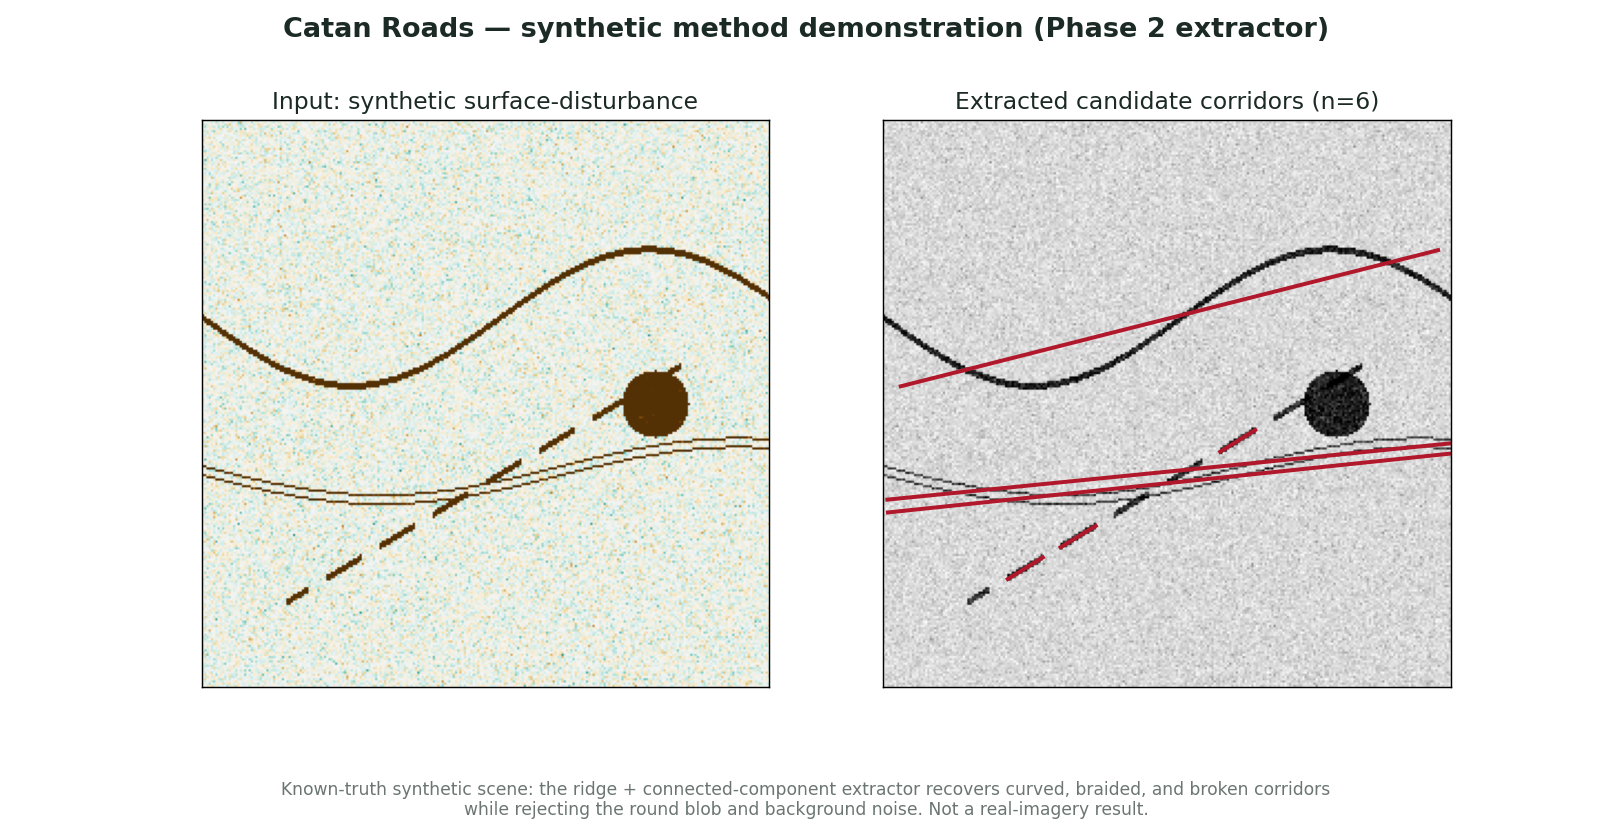
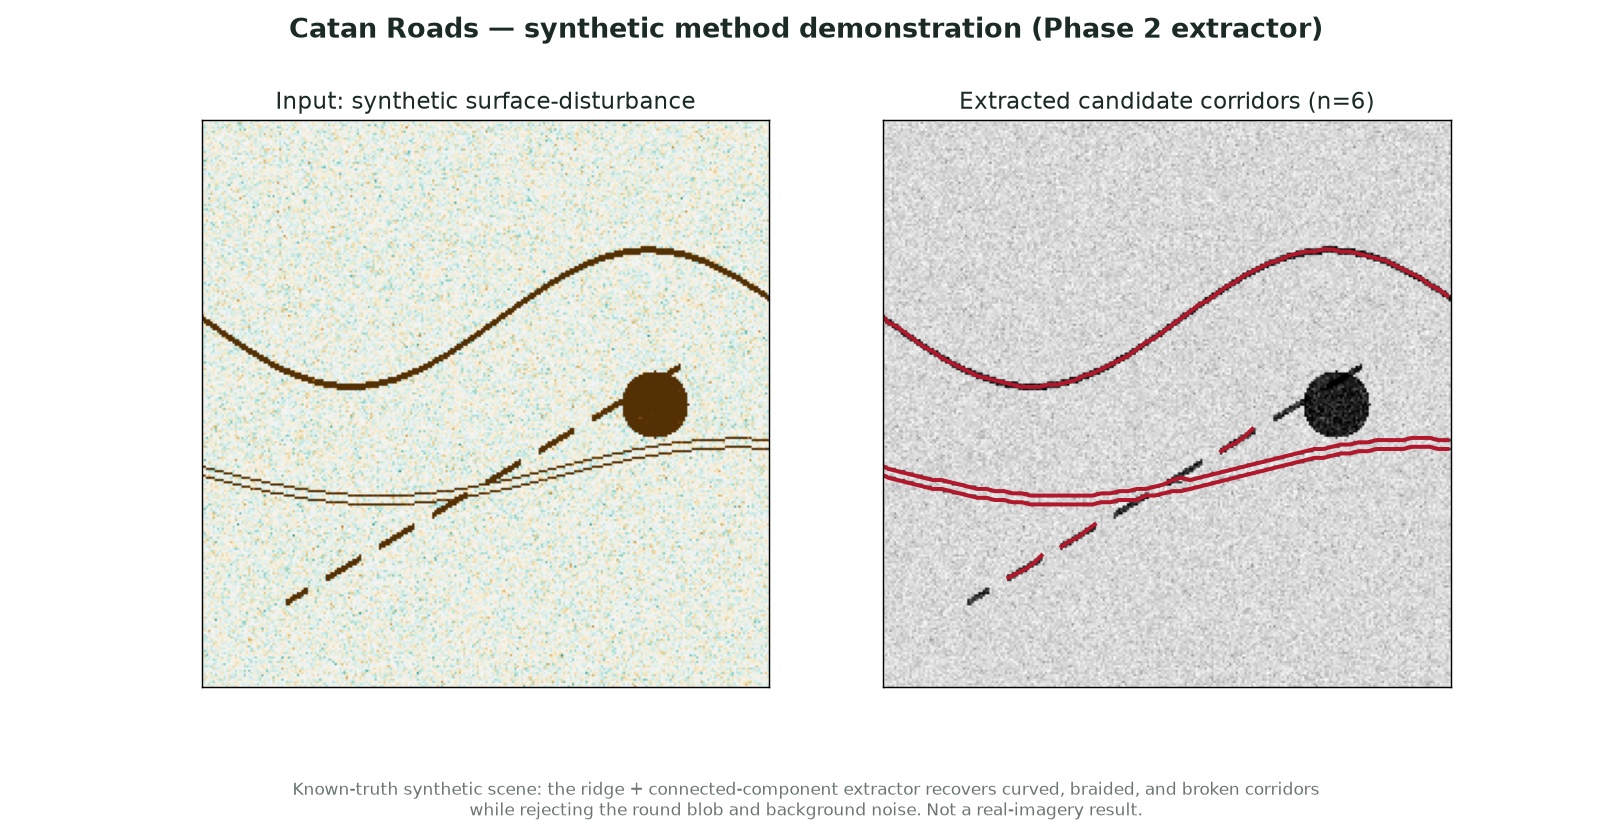
analysis: export a centred polyline (path_px) per candidate; curved corridors now pass the line layer (CR-09)
medial_path builds the 8-neighbour graph of one component's pixels with edge
cost 1/edt (scipy distance transform + csgraph dijkstra, no new dependency),
takes the deepest pixel at each major-axis extreme as the ends, and exports
the cheapest route, subsampled every 4 px, as path_px. endpoints_px and every
other chord field are unchanged, so the demo numeric record and its tests are
untouched. to_geojson and the demo figure draw path_px; the stress-case line
layer scores it. Record v4; v1 baseline byte-unchanged.

Line recall vs reference centerline: low_snr 0.11 -> 1.00, tight_curve
0.25 -> 0.97, demo_reference 0.44 -> 0.94; component layer identical.
86 tests pass; CLI reproduces the committed record; both Node checks,
presentation and worksheet checks pass. Plan: docs/PLAN_2026-09-14_CR09.md.

diff --git a/analysis/tests/test_stress_cases.py b/analysis/tests/test_stress_cases.py
@@ -85,11 +85,14 @@ def test_gradient_background_adds_small_false_candidates(live):
 
 
 # ── where it misrepresents ──────────────────────────────────────────────────────────────
-def test_hairpin_is_summarised_as_one_straight_segment():
+def test_hairpin_chord_is_flat_but_its_exported_path_doubles_back():
+    # CR-09: the chord summary is unchanged (and still blind to the curve); the exported path_px is not.
     d, _, _ = SC.case_tight_curve(); c = extract_candidates(d)[0]
     (x0, y0), (x1, y1) = c["endpoints_px"]
-    assert abs(y0 - y1) < 1.0, "endpoints lie on one horizontal line; the doubling-back is invisible"
+    assert abs(y0 - y1) < 1.0, "chord endpoints lie on one horizontal line; the doubling-back is invisible to the chord"
     assert c["width_px"] > 20, "the hairpin's height is reported as candidate WIDTH"
+    ys = [y for _, y in c["path_px"]]
+    assert max(ys) - min(ys) > 15, "path_px follows the hairpin"
 
 
 def test_width_px_is_curve_extent_not_road_width_regardless_of_noise():
@@ -105,7 +108,7 @@ def test_width_px_is_curve_extent_not_road_width_regardless_of_noise():
 def test_wrong_endpoints_score_worse_on_the_line_layer_negative_control():
     d, t, cl = SC.case_wide_corridor(); c = extract_candidates(d)
     good = SC.score_lines(cl, c, truth=t)
-    for cc in c: cc["endpoints_px"] = [[0.0, 0.0], [255.0, 255.0]]
+    for cc in c: cc["path_px"] = [[0.0, 0.0], [255.0, 255.0]]
     bad = SC.score_lines(cl, c, truth=t)
     assert good["line_recall"] > 5 * bad["line_recall"], (good, bad)
     assert good["line_precision"] > 0.95 and bad["line_precision"] < 0.1
@@ -114,7 +117,7 @@ def test_wrong_endpoints_score_worse_on_the_line_layer_negative_control():
 # ── review 2 (2026-09-12): the line layer penalised road width ──
 def test_perfect_centerline_passes_regardless_of_road_width():
     d, t, cl = SC.case_wide_corridor()
-    perfect = [dict(id=1, endpoints_px=[[0.0, 128.0], [255.0, 128.0]])]
+    perfect = [dict(id=1, path_px=[[0.0, 128.0], [255.0, 128.0]])]
     s = SC.score_lines(cl, perfect, truth=t)
     assert s["line_recall"] == 1.0 and s["line_precision"] == 1.0 and s["line_ok"]
     assert 0.3 < s["area_coverage"] < 0.45, "area coverage of a 13-px road by a 2-px band is a separate diagnostic, not a penalty"
@@ -122,7 +125,7 @@ def test_perfect_centerline_passes_regardless_of_road_width():
 
 def test_offset_centerline_is_penalised_by_the_centerline_metric():
     d, t, cl = SC.case_wide_corridor()
-    off = [dict(id=1, endpoints_px=[[0.0, 133.0], [255.0, 133.0]])]     # 5 px off-centre, still inside the 13-px road
+    off = [dict(id=1, path_px=[[0.0, 133.0], [255.0, 133.0]])]     # 5 px off-centre, still inside the 13-px road
     s = SC.score_lines(cl, off, truth=t)
     assert s["line_recall"] == 0.0 and not s["line_ok"], s
 
@@ -142,16 +145,25 @@ def test_demo_centerline_reconstruction_matches_the_generator():
 def test_component_layer_is_blind_to_endpoints_and_the_record_says_so(live):
     d, t, cl = SC.case_low_snr(); c = extract_candidates(d)
     s0 = SC.score(d, t, c, centerline=cl)
-    for cc in c: cc["endpoints_px"] = [[0.0, 0.0], [255.0, 255.0]]
+    for cc in c: cc["path_px"] = [[0.0, 0.0], [255.0, 255.0]]
     s1 = SC.score(d, t, c, centerline=cl)
     assert (s0["pixel_recall"], s0["pixel_precision"]) == (s1["pixel_recall"], s1["pixel_precision"])   # blind, by construction
     assert s1["line_recall"] < s0["line_recall"]                                                           # the line layer is not
 
 
-def test_curved_corridors_pass_the_component_layer_and_fail_the_line_layer(live):
+def test_curved_corridors_pass_the_component_layer_and_now_the_line_layer(live):
+    # CR-09 (2026-09-15): before path_px these three passed the component layer and FAILED the line
+    # layer (line recall 0.11 / 0.25 / 0.44); the exported polyline now follows the curve.
     for name in ("low_snr", "tight_curve", "demo_reference"):
-        assert live[name]["detected"] and not live[name]["line_ok"], name
-    assert live["low_snr"]["line_recall"] < 0.2 and live["tight_curve"]["line_recall"] < 0.35
+        assert live[name]["detected"] and live[name]["line_ok"], name
+    assert live["low_snr"]["line_recall"] >= 0.5 and live["tight_curve"]["line_recall"] >= 0.5
+
+
+def test_straight_component_path_stays_within_2px_of_its_chord():
+    d, _, _ = SC.case_wide_corridor(); c = extract_candidates(d)[0]
+    (x0, y0), (x1, y1) = c["endpoints_px"]; L = math.hypot(x1 - x0, y1 - y0)
+    off = [abs((x1 - x0) * (y0 - y) - (x0 - x) * (y1 - y0)) / L for x, y in c["path_px"]]
+    assert max(off) <= 2.0 and len(c["path_px"]) >= 2, max(off)
 
 
 def test_straight_wide_corridor_now_passes_the_line_layer(live):

diff --git a/analysis/catanroads/extract.py b/analysis/catanroads/extract.py
@@ -17,6 +17,8 @@ from __future__ import annotations
 
 import numpy as np
 from scipy import ndimage
+from scipy.sparse import coo_matrix
+from scipy.sparse.csgraph import dijkstra
 
 
 def ridge_strength(img: np.ndarray, sigmas=(1.0, 2.0, 3.0)) -> np.ndarray:
@@ -49,6 +51,36 @@ def label_candidates(disturbance, disturb_thresh: float = 1.0, ridge_sigmas=(1.0
     return ndimage.label((d >= disturb_thresh) & (ridge >= rt), structure=np.ones((3, 3)))
 
 
+def medial_path(component, proj, step=4):
+    """Centred polyline through one component (CR-09): the cheapest 8-connected route between the
+    component's two ends, with edge cost 1/edt so the route hugs the medial axis. The ends are the
+    deepest pixels at the extremes of ``proj`` (the pixels' projection on the major axis, in
+    ``np.nonzero`` order). Returns a list of ``[x, y]`` vertices."""
+    h, w = component.shape
+    ys, xs = np.nonzero(component)
+    idx = np.full(component.shape, -1); idx[ys, xs] = np.arange(xs.size)
+    edt = ndimage.distance_transform_edt(component)
+    src, dst, cost = [], [], []
+    for dy, dx in ((0, 1), (1, 0), (1, 1), (1, -1)):        # half the 8-neighbourhood; graph is undirected
+        y2, x2 = ys + dy, xs + dx
+        ok = (y2 >= 0) & (y2 < h) & (x2 >= 0) & (x2 < w)
+        ok[ok] &= idx[y2[ok], x2[ok]] >= 0
+        src.append(idx[ys[ok], xs[ok]]); dst.append(idx[y2[ok], x2[ok]])
+        cost.append(np.hypot(dy, dx) * (1 / edt[ys[ok], xs[ok]] + 1 / edt[y2[ok], x2[ok]]) / 2)
+    g = coo_matrix((np.concatenate(cost), (np.concatenate(src), np.concatenate(dst))), shape=(xs.size,) * 2).tocsr()
+    depth = edt[ys, xs]
+    a = int(np.argmax(np.where(proj <= proj.min() + 1, depth, -1)))
+    b = int(np.argmax(np.where(proj >= proj.max() - 1, depth, -1)))
+    _, pred = dijkstra(g, directed=False, indices=a, return_predecessors=True)
+    path = [b]
+    while path[-1] != a:
+        path.append(pred[path[-1]])
+    path = np.asarray(path[::-1])
+    # ponytail: fixed 4-px subsample; Douglas-Peucker when someone needs fewer vertices
+    keep = np.r_[0:len(path) - 1:step, len(path) - 1]
+    return np.column_stack([xs[path[keep]], ys[path[keep]]]).astype(float).tolist()
+
+
 def extract_candidates(
     disturbance: np.ndarray,
     disturb_thresh: float = 1.0,
@@ -61,6 +93,8 @@ def extract_candidates(
 
     Components of ``label_candidates`` are kept only if long (``min_length_px``) and
     elongated (``min_elongation``), which rejects round blobs and short noise specks.
+    ``endpoints_px`` is the straight major-axis chord (summary geometry); ``path_px`` is the
+    centred polyline actually exported (see ``medial_path``).
     """
     d = np.asarray(disturbance, dtype=float)
     lbl, n = label_candidates(d, disturb_thresh, ridge_sigmas, ridge_quantile)
@@ -91,6 +125,7 @@ def extract_candidates(
             "id": int(i),
             "centroid_px": [float(c[0]), float(c[1])],
             "endpoints_px": [[float(p0[0]), float(p0[1])], [float(p1[0]), float(p1[1])]],
+            "path_px": medial_path(lbl == i, proj),
             "length_px": length,
             "width_px": width,
             "orientation_deg": orient,
@@ -103,17 +138,17 @@ def extract_candidates(
 
 
 def to_geojson(candidates: list[dict], transform=None) -> dict:
-    """FeatureCollection of candidate LineStrings.
+    """FeatureCollection of candidate LineStrings along each candidate's ``path_px``.
 
     ``transform`` is an optional ``(x_px, y_px) -> (lon, lat)`` callable; without it
     coordinates are left in pixel space. No shapely dependency required.
     """
     features = []
     for c in candidates:
-        coords = c["endpoints_px"]
+        coords = c["path_px"]
         if transform is not None:
             coords = [list(transform(x, y)) for x, y in coords]
-        props = {k: v for k, v in c.items() if k != "endpoints_px"}
+        props = {k: v for k, v in c.items() if k not in ("path_px", "endpoints_px")}
         features.append({
             "type": "Feature",
             "geometry": {"type": "LineString", "coordinates": coords},

diff --git a/analysis/catanroads/stress_cases.py b/analysis/catanroads/stress_cases.py
@@ -15,15 +15,16 @@ Scoring (per case), two layers that must not be confused (review 2026-09-12):
     pixel_recall     fraction of truth pixels lying within `tol_px` of any candidate's pixels
     pixel_precision  fraction of candidate pixels within `tol_px` of the truth mask
     false_candidates candidates whose pixels have < 20 % overlap (dilated) with the truth mask
-  LINE layer -- what the extractor actually EXPORTS (endpoints_px -> a straight segment), scored
-  against each case's REFERENCE CENTERLINE (never the road-area mask; review 2, 2026-09-12):
-    line_recall      fraction of reference-centerline pixels within `tol_px` of the exported segments
-    line_precision   fraction of exported-segment pixels within `tol_px` of the reference centerline
+  LINE layer -- what the extractor actually EXPORTS (path_px, a polyline; CR-09. Until CR-09 this
+  was the straight endpoints_px chord), scored against each case's REFERENCE CENTERLINE (never the
+  road-area mask; review 2, 2026-09-12):
+    line_recall      fraction of reference-centerline pixels within `tol_px` of the exported polyline
+    line_precision   fraction of exported-polyline pixels within `tol_px` of the reference centerline
     area_coverage    fraction of the road-AREA mask the exported band covers -- a separate diagnostic
   detected         pixel_recall >= 0.5 (component layer, deliberately coarse)
   line_ok          line_recall >= 0.5 AND line_precision >= 0.5
 The component layer can be excellent while the delivered geometry is wrong (a hairpin exported as
-one straight chord, for example); only the line layer sees that. width_px is the component's
+one straight chord, as it was before CR-09); only the line layer sees that. width_px is the component's
 minor-axis EXTENT, not road width: for a curved corridor it is the curve's transverse extent and is
 ~55 px with zero noise.
 """
@@ -177,19 +178,19 @@ def _fraction_within(of, band):
 
 
 def rasterise_segments(candidates, shape):
-    """Pixels of the straight segments the extractor exports (endpoints_px), 8-connected."""
+    """Pixels of the polylines the extractor exports (path_px, consecutive vertex pairs), 8-connected."""
     m = np.zeros(shape, dtype=bool)
     for c in candidates:
-        (x0, y0), (x1, y1) = c["endpoints_px"]
-        n = int(max(abs(x1 - x0), abs(y1 - y0))) + 1
-        xs = np.rint(np.linspace(x0, x1, n)).astype(int); ys = np.rint(np.linspace(y0, y1, n)).astype(int)
-        ok = (xs >= 0) & (xs < shape[1]) & (ys >= 0) & (ys < shape[0])
-        m[ys[ok], xs[ok]] = True
+        for (x0, y0), (x1, y1) in zip(c["path_px"], c["path_px"][1:]):
+            n = int(max(abs(x1 - x0), abs(y1 - y0))) + 1
+            xs = np.rint(np.linspace(x0, x1, n)).astype(int); ys = np.rint(np.linspace(y0, y1, n)).astype(int)
+            ok = (xs >= 0) & (xs < shape[1]) & (ys >= 0) & (ys < shape[0])
+            m[ys[ok], xs[ok]] = True
     return m
 
 
 def score_lines(centerline, candidates, tol_px=2, truth=None):
-    """Exported straight segments against the REFERENCE CENTERLINE (review 2, 2026-09-12): a
+    """Exported polylines (path_px) against the REFERENCE CENTERLINE (review 2, 2026-09-12): a
     perfect centerline scores 1.0 regardless of road width. `line_recall`/`line_precision` are
     centerline-to-centerline within tol_px. If the road-area `truth` mask is also given, the
     fraction of it the tolerance band covers is reported separately as `area_coverage` -- a

diff --git a/analysis/demo_synthetic.py b/analysis/demo_synthetic.py
@@ -26,8 +26,7 @@ axes[0].set_title("Input: synthetic surface-disturbance", fontsize=13, color=INK
 
 axes[1].imshow(d, cmap="Greys", vmin=-1, vmax=3)
 for c in cands:
-    (x0, y0), (x1, y1) = c["endpoints_px"]
-    axes[1].plot([x0, x1], [y0, y1], color=RED, lw=2.2)
+    axes[1].plot(*zip(*c["path_px"]), color=RED, lw=2.2)
 axes[1].set_title(f"Extracted candidate corridors (n={len(cands)})", fontsize=13, color=INK)
 
 for ax in axes:

diff --git a/analysis/tests/test_extract.py b/analysis/tests/test_extract.py
@@ -42,7 +42,7 @@ def test_geojson_shape():
     assert gj["type"] == "FeatureCollection"
     for f in gj["features"]:
         assert f["geometry"]["type"] == "LineString"
-        assert len(f["geometry"]["coordinates"]) == 2
+        assert len(f["geometry"]["coordinates"]) >= 2
         assert "length_px" in f["properties"] and "elongation" in f["properties"]
 
 

diff --git a/evidence/task-2026-09-15/README.md b/evidence/task-2026-09-15/README.md
@@ -1,0 +1,72 @@
+# CR-09 — export the corridor's path, not one chord — 2026-09-15
+
+Branch `task/cr09-path-export-20260914` off `main` 0028c5f (merged plan
+[docs/PLAN_2026-09-14_CR09.md](../../docs/PLAN_2026-09-14_CR09.md), PR #17). Built
+2026-09-15; the plan named the evidence folder `task-2026-09-14`, this folder is dated
+by when the work was actually done. Owner decisions in the plan were not edited before
+merge, so the proposed defaults apply: `path_px` as a new field beside the unchanged
+chord; 4-px subsample; Task 2 in the same PR.
+
+## What changed
+`extract.medial_path` builds the 8-neighbour graph of one component's pixels with edge cost
+`1/edt` (scipy `distance_transform_edt`, `sparse.csgraph.dijkstra`; no new dependency),
+picks the deepest pixel at each extreme of the major-axis projection as the two ends, and
+exports the cheapest route between them, subsampled every 4 px, as `path_px`.
+`endpoints_px`, `length_px`, `width_px`, `orientation_deg`, `elongation` and the component
+layer are untouched. `to_geojson` and the demo figure draw `path_px`;
+`stress_cases.score_lines` scores it.
+
+## Before / after (exported-line layer vs reference centerline, tol 2 px)
+| case | component recall | v3 line recall / precision (chord) | v4 line recall / precision (`path_px`) | line_ok v3 → v4 |
+|---|---:|---:|---:|---|
+| demo_reference | 0.92 | 0.44 / 0.45 | 0.94 / 1.00 | no → **yes** |
+| low_snr (curve) | 1.00 | 0.11 / 0.11 | 1.00 / 1.00 | no → **yes** |
+| tight_curve (hairpin) | 1.00 | 0.25 / 0.26 | 0.97 / 1.00 | no → **yes** |
+| wide_corridor | 1.00 | 1.00 / 1.00 | 1.00 / 1.00 | yes → yes |
+| faint_corridor | 0.93 | 0.94 / 1.00 | 0.91 / 1.00 | yes → yes |
+| gradient_background | 1.00 | 1.00 / 0.90 | 1.00 / 0.90 | yes → yes |
+| crossing / short_segments | 0.00 | 0.00 / — | 0.00 / — | miss → miss |
+| linear_confound_riverbank | — | — / 0.00 | — / 0.00 | fabricated → fabricated |
+
+Component-layer numbers (`n_candidates`, `n_false_candidates`, `pixel_recall`,
+`pixel_precision`) are identical to v3 and to the v1 baseline for every case
+(asserted by `test_committed_record_matches_live_run` against the new record and
+`test_baseline_record_is_preserved_unchanged`). The faint corridor's line recall moved
+0.94 → 0.91: its seven fragments' paths end at the deepest pixel of each fragment
+rather than the chord's extrapolated tip. No default, `tol_px` or 0.5 threshold changed.
+
+## Record
+`results/extractor_stress_cases.json` is now schema v4 (`supersedes` names v3 and
+states the line layer scores `path_px`); `results/extractor_stress_cases_baseline_2026-09-12.json`
+is byte-unchanged. `results/method_demo_synthetic.png` was regenerated from
+`analysis/demo_synthetic.py`; `results/method_demo_synthetic.numeric.json` and its four
+tests are untouched because the chord fields did not change.
+
+## Tests
+- `test_hairpin_chord_is_flat_but_its_exported_path_doubles_back` (was `..._is_summarised_as_one_straight_segment`): chord still flat; `path_px` y-extent > 15 px.
+- `test_curved_corridors_pass_the_component_layer_and_now_the_line_layer` (was `..._and_fail_the_line_layer`): the three curved cases reach `line_ok`; the two `< 0.2 / < 0.35` bounds became `>= 0.5`.
+- New: `test_straight_component_path_stays_within_2px_of_its_chord`.
+- The four negative controls that overwrote `endpoints_px` now overwrite `path_px`; `test_geojson_shape` accepts ≥ 2 coordinates.
+
+## Checks observed (repository root, fresh venv, `pip install -e "analysis[dev]"`)
+| command | observed |
+|---|---|
+| `python -m compileall -q analysis/catanroads analysis/tests` | exit 0 |
+| `PYTHONPATH=analysis MPLBACKEND=Agg python -m pytest analysis/tests -q` | **86 passed** (85 + 1 new) |
+| `python -m catanroads.stress_cases` vs committed v4 record | equal (tested by `test_cli_reproduces_the_committed_record_exactly`) |
+| `node tools/validate_phase1.mjs` | passed (6 sites; Z_MIN=1.0; four QA layers) |
+| `node tools/test_temporal_qa.mjs` | PASS |
+| `python tools/check_presentation.py . "Informal Road Mapping" informal-road-mapping` | issues: [] |
+| `python tools/test_presentation.py` | OK |
+| `PYTHONPATH=analysis python -m catanroads.site_worksheet --check` | consistent |
+| `MPLBACKEND=Agg python analysis/demo_synthetic.py` | wrote figure, 6 candidates |
+
+## Task 2 — what stays missed, by construction (CR-09 taxonomy)
+Unchanged and still pinned by tests; no parameter was touched:
+- **Junctions** (`crossing`): two full corridors form one 8-connected component whose elongation is below `min_elongation=3`; zero candidates. A junction-aware extractor is a separate task with its own stress cases.
+- **Gaps** (`short_segments`): 9-px dashes each under `min_length_px=12`; zero candidates. Gap bridging is likewise a separate task.
+- **Linear non-road features** (`linear_confound_riverbank`): a river-bank-shaped ridge is returned as the single strongest candidate, precision 0. Nothing in geometry can separate it from a road; this is the class field verification exists for.
+
+## Not done
+No imagery, no site, no Mongolia result; CR-08 unchanged. `path_px` follows the
+component's medial axis; it says nothing about whether the component is a road.

diff --git a/results/README.md b/results/README.md
@@ -53,23 +53,23 @@ Do **not** commit raw imagery exports here — GeoTIFFs and archives are ignored
 
 
 
-## `extractor_stress_cases.json` — where the extractor detects, misses, fabricates, or misrepresents (CR-R03 → R03c, 2026-09-13)
+## `extractor_stress_cases.json` — where the extractor detects, misses, fabricates, or misrepresents (CR-R03 → R03c → CR-09, 2026-09-15)
 
-Ten fixed synthetic cases (`analysis/catanroads/stress_cases.py`), each with a road-area truth mask **and a 1-px reference centerline**, scored on two layers that must not be confused: the *component* layer (the extractor's internal mask vs the road-area truth, within 2 px) and the *exported-line* layer (the straight segment the extractor delivers as `endpoints_px` **vs the reference centerline**, within 2 px). `area_coverage` — how much of the road-area mask the exported band covers — is reported as a separate diagnostic and never enters `line_ok`. Regenerate with `python -m catanroads.stress_cases`; `tests/test_stress_cases.py` pins the observed behaviour. `extractor_stress_cases_baseline_2026-09-12.json` is the v1 component-only record, kept byte-unchanged. **Synthetic constructions only — nothing here is imagery or a site result.**
+Ten fixed synthetic cases (`analysis/catanroads/stress_cases.py`), each with a road-area truth mask **and a 1-px reference centerline**, scored on two layers that must not be confused: the *component* layer (the extractor's internal mask vs the road-area truth, within 2 px) and the *exported-line* layer (the polyline the extractor delivers as `path_px` **vs the reference centerline**, within 2 px). `area_coverage` — how much of the road-area mask the exported band covers — is reported as a separate diagnostic and never enters `line_ok`. Regenerate with `python -m catanroads.stress_cases`; `tests/test_stress_cases.py` pins the observed behaviour. `extractor_stress_cases_baseline_2026-09-12.json` is the v1 component-only record, kept byte-unchanged. **Synthetic constructions only — nothing here is imagery or a site result.**
 
 | case | cands | false | component recall | exported-line recall / precision (vs centerline) | area coverage |
 |---|---:|---:|---:|---:|---:|
-| demo_reference | 6 | 0 | 0.92 | 0.44 / 0.45 | 0.35 |
-| faint_corridor | 7 | 0 | 0.93 | 0.94 / 1.00 | 0.92 |
+| demo_reference | 6 | 0 | 0.92 | 0.94 / 1.00 | 0.89 |
+| faint_corridor | 7 | 0 | 0.93 | 0.91 / 1.00 | 0.90 |
 | wide_corridor | 1 | 0 | 1.00 | 1.00 / 1.00 | 0.38 |
 | crossing | 0 | 0 | 0.00 | 0.00 / — | 0.00 |
 | short_segments | 0 | 0 | 0.00 | 0.00 / — | 0.00 |
 | linear_confound_riverbank | 1 | 1 | — | — / 0.00 | — |
 | speckle_only | 0 | 0 | — | — / — | — |
-| low_snr | 1 | 0 | 1.00 | 0.11 / 0.11 | 0.10 |
+| low_snr | 1 | 0 | 1.00 | 1.00 / 1.00 | 1.00 |
 | gradient_background | 3 | 2 | 1.00 | 1.00 / 0.90 | 1.00 |
-| tight_curve | 1 | 0 | 1.00 | 0.25 / 0.26 | 0.27 |
+| tight_curve | 1 | 0 | 1.00 | 0.97 / 1.00 | 0.99 |
 
-**Three corrections across two reviews.** (v2) The component score is blind to the exported geometry — replacing endpoints with a wrong segment leaves it unchanged; the line layer catches it. (v2) `width_px` is the component's minor-axis *extent*: 54.7 px for the curved corridor at **zero** noise, against a 3 px road. (v3) The v2 line layer was scored against the road-**area** mask, so a perfect centerline through the 13-px straight road scored recall 0.385 — a 2-px band covers 5/13 of the area. It is now scored against the reference centerline: a perfect centerline scores 1.0 regardless of road width, a 5-px off-centre line inside the road scores 0, and the width effect is visible only as `area_coverage`.
+**Four records.** (v1) component layer only. (v2) the component score is blind to the exported geometry, so a line layer was added; `width_px` is the component's minor-axis *extent*, 54.7 px for the curved corridor at zero noise. (v3) the line layer is scored against the reference centerline, not the road-area mask, so a perfect centerline scores 1.0 regardless of road width. (v4, CR-09) the exported geometry is `path_px`, a centred polyline along the component's medial axis, instead of the straight `endpoints_px` chord; the chord stays as a summary field. Before v4 every **curved** corridor passed the component layer and failed the exported line (0.11 / 0.25 / 0.44); with `path_px` all three pass. Component-layer numbers are identical across all four records.
 
-What survives all three: every **curved** corridor — the demo included — passes the component layer and fails the exported line (0.11 / 0.25 / 0.44), because one straight chord cannot represent a curve. Straight corridors pass both. Crossings and dashes are missed; the river-bank confound is fabricated. For CR-09: the **representation** (one straight segment per component), not the threshold, is what to fix next.
+What still fails, by construction: crossings and dashes are missed (elongation and minimum-length filters); the river-bank confound is fabricated. Those are the extractor's remaining limits, recorded in [the CR-09 evidence](../evidence/task-2026-09-15/README.md).
